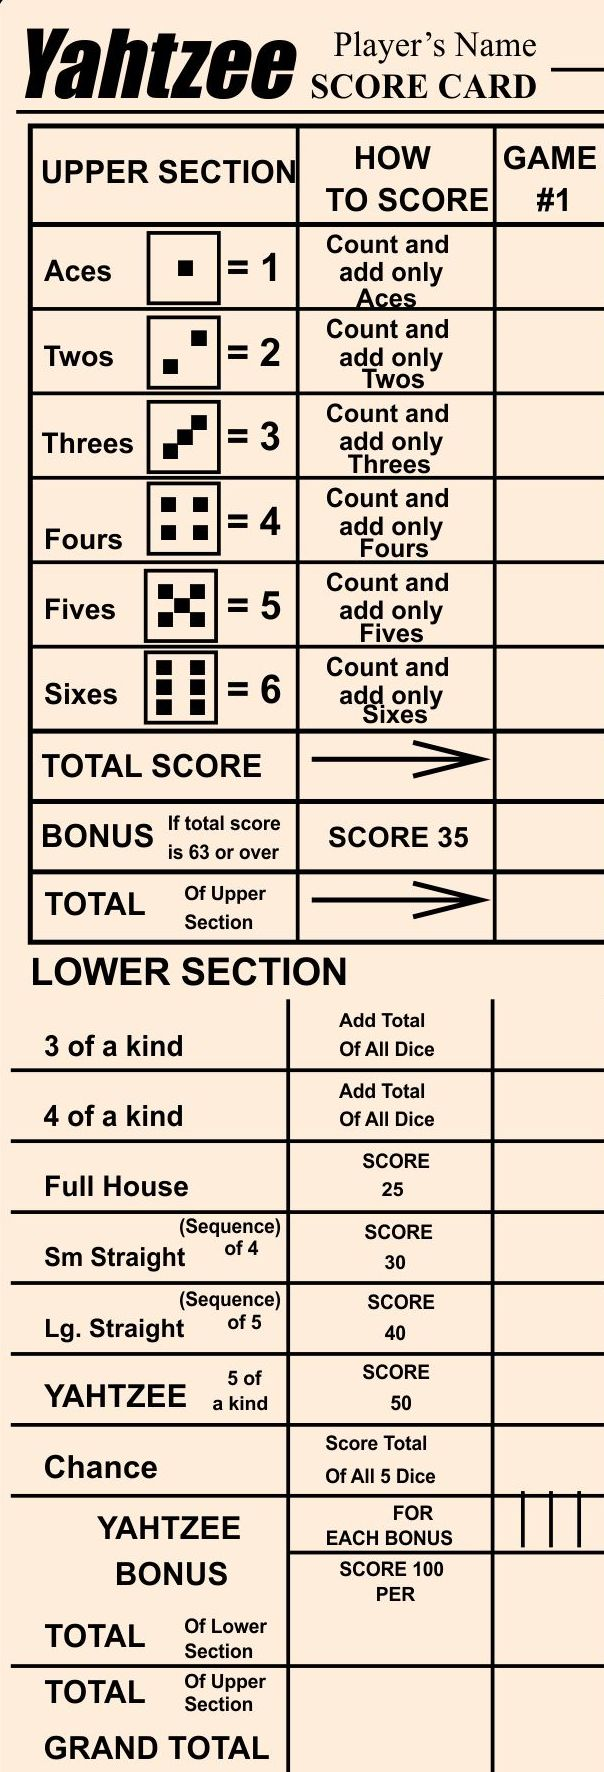
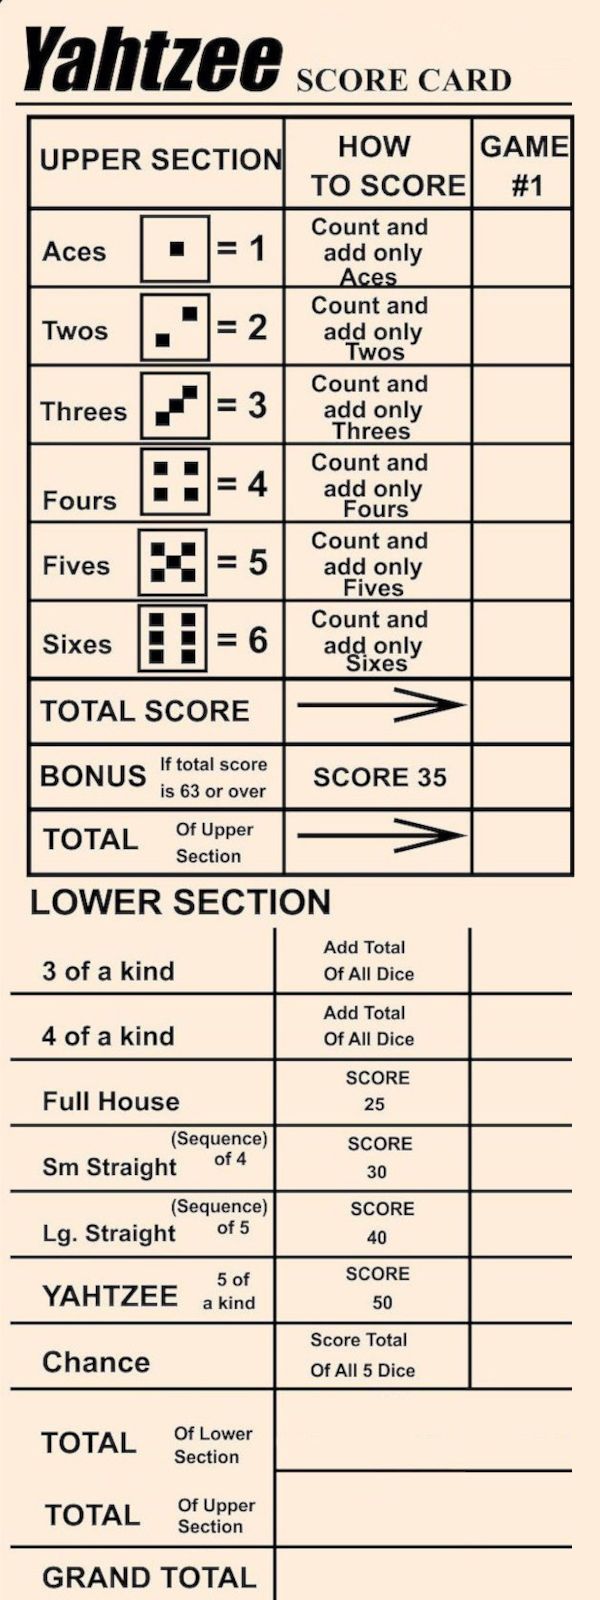
Update libraries. Css improvement for the scoresheet

diff --git a/styles/ScoreSheet.module.css b/styles/ScoreSheet.module.css
@@ -5,14 +5,14 @@
     position: fixed;
     top: 0;
     left: 0;
-    width: 345px;
+    width: 350px;
     height: 1080px;
     /*background-color: aqua;*/
     /*max-height: 1600px;*/
 }
 
 .scoresheet{
-    background-image: url('/images/score-sheet-mod.jpg');
+    background-image: url('/images/score-sheet.jpg');
     background-repeat:no-repeat;
     background-size:cover;   
     height: 970px; 
@@ -43,8 +43,8 @@
 .scoresheet_Aces:hover:not(.scoresheet_score_taken){
     background-image: url('/images/circle-red.png');
     background-repeat:space;
-    background-size:cover;
-    background-position: -6px -8px;
+    background-size:contain;
+    background-position: 30% 0%;
     cursor:pointer;
 }
 

diff --git a/styles/main.css b/styles/main.css
@@ -11,7 +11,7 @@ body {
 
 .columnRight{
     position: absolute;
-    left: 345px;
+    left: 350px;
     width: 76vw;
     height: calc(100% - 57px);
     background:#FDECDC;
